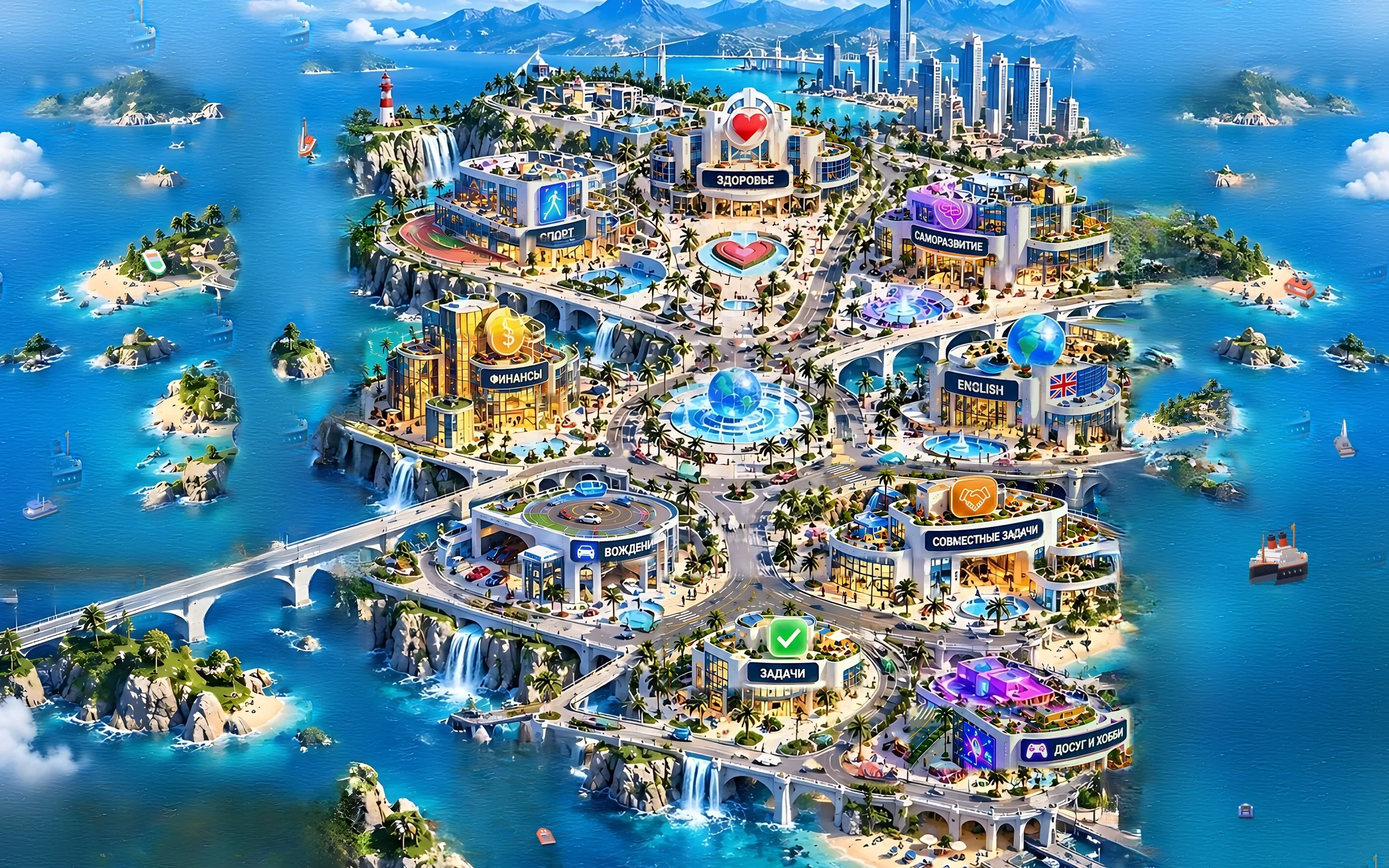
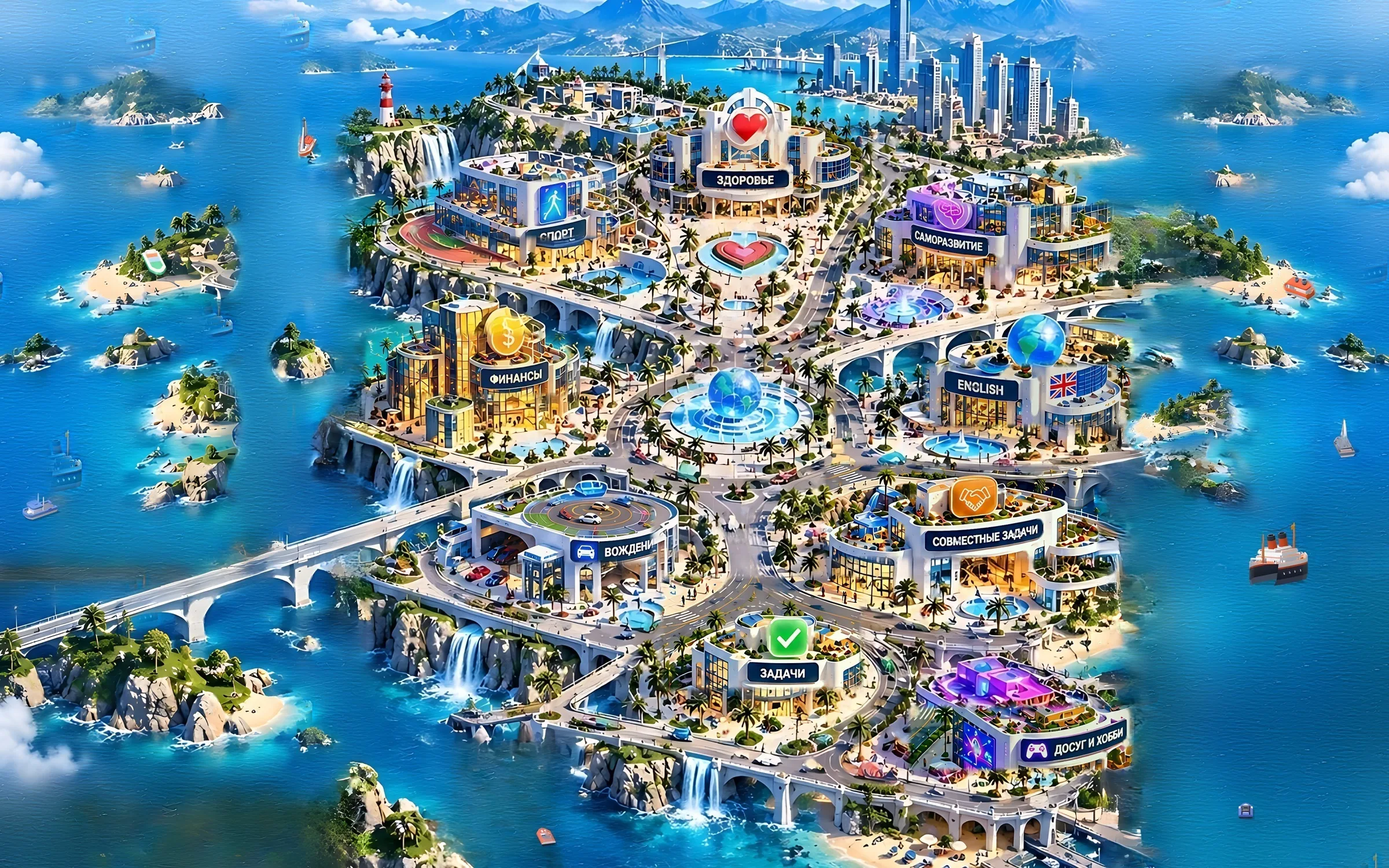
Город 0.16.0: сцена без нарисованных людей и призраков, больше птиц, документация
Claude-Session: https://claude.ai/code/session_01VdRTVZfvFE4GcuyKnK2xSA

diff --git a/src/components/CityAnimals.tsx b/src/components/CityAnimals.tsx
@@ -22,6 +22,10 @@ const animals: Animal[] = [
   { sprite: parrot10, from: [1040, 860], to: [520, 300], size: 3.4, walk: 14, step: .5, fly: true },
   { sprite: stork8, from: [1050, 120], to: [-60, 230], size: 4.4, walk: 24, step: .65, fly: true },
   { sprite: stork2, from: [-60, 560], to: [560, 1180], size: 4.2, walk: 20, step: .65, fly: true },
+  { sprite: parrot0, from: [-60, 700], to: [1060, 520], size: 3, walk: 19, step: .5, fly: true },
+  { sprite: parrot10, from: [1060, 1100], to: [-60, 640], size: 3, walk: 21, step: .5, fly: true },
+  { sprite: stork8, from: [1060, 420], to: [-60, 900], size: 4, walk: 23, step: .65, fly: true },
+  { sprite: stork2, from: [200, -60], to: [900, 1300], size: 3.8, walk: 25, step: .65, fly: true },
 ];
 const percent = ([x, y]: [number, number]) => [`${(x / 1005) * 100}%`, `${(y / 1280) * 100}%`];
 

diff --git a/CHANGELOG.md b/CHANGELOG.md
@@ -8,6 +8,7 @@
 - Телефон: остров без окружения, под картой ленты районов и та же карточка района.
 - Карта без обводки элементов (апскейл ×4 с мягкой резкостью).
 - Животные: лисы и лошади гуляют по площадям и набережным, попугаи и аисты пролетают над островом (анимированные 3D-модели, 8 кадров).
+- Цельная картинка-сцена на ПК без нарисованных людей и лодок-призраков; 20 пешеходов — анимированные 3D-модели, идут по тротуарам; восемь птиц над островом.
 - Мышь: колёсико и двойной щелчок приближают к курсору (до ×3), перетаскивание листает увеличенную карту.
 - Убраны заголовок «Добро пожаловать на свой остров» и список «Войти в здание»: районы выбираются на карте и в списке.
 
